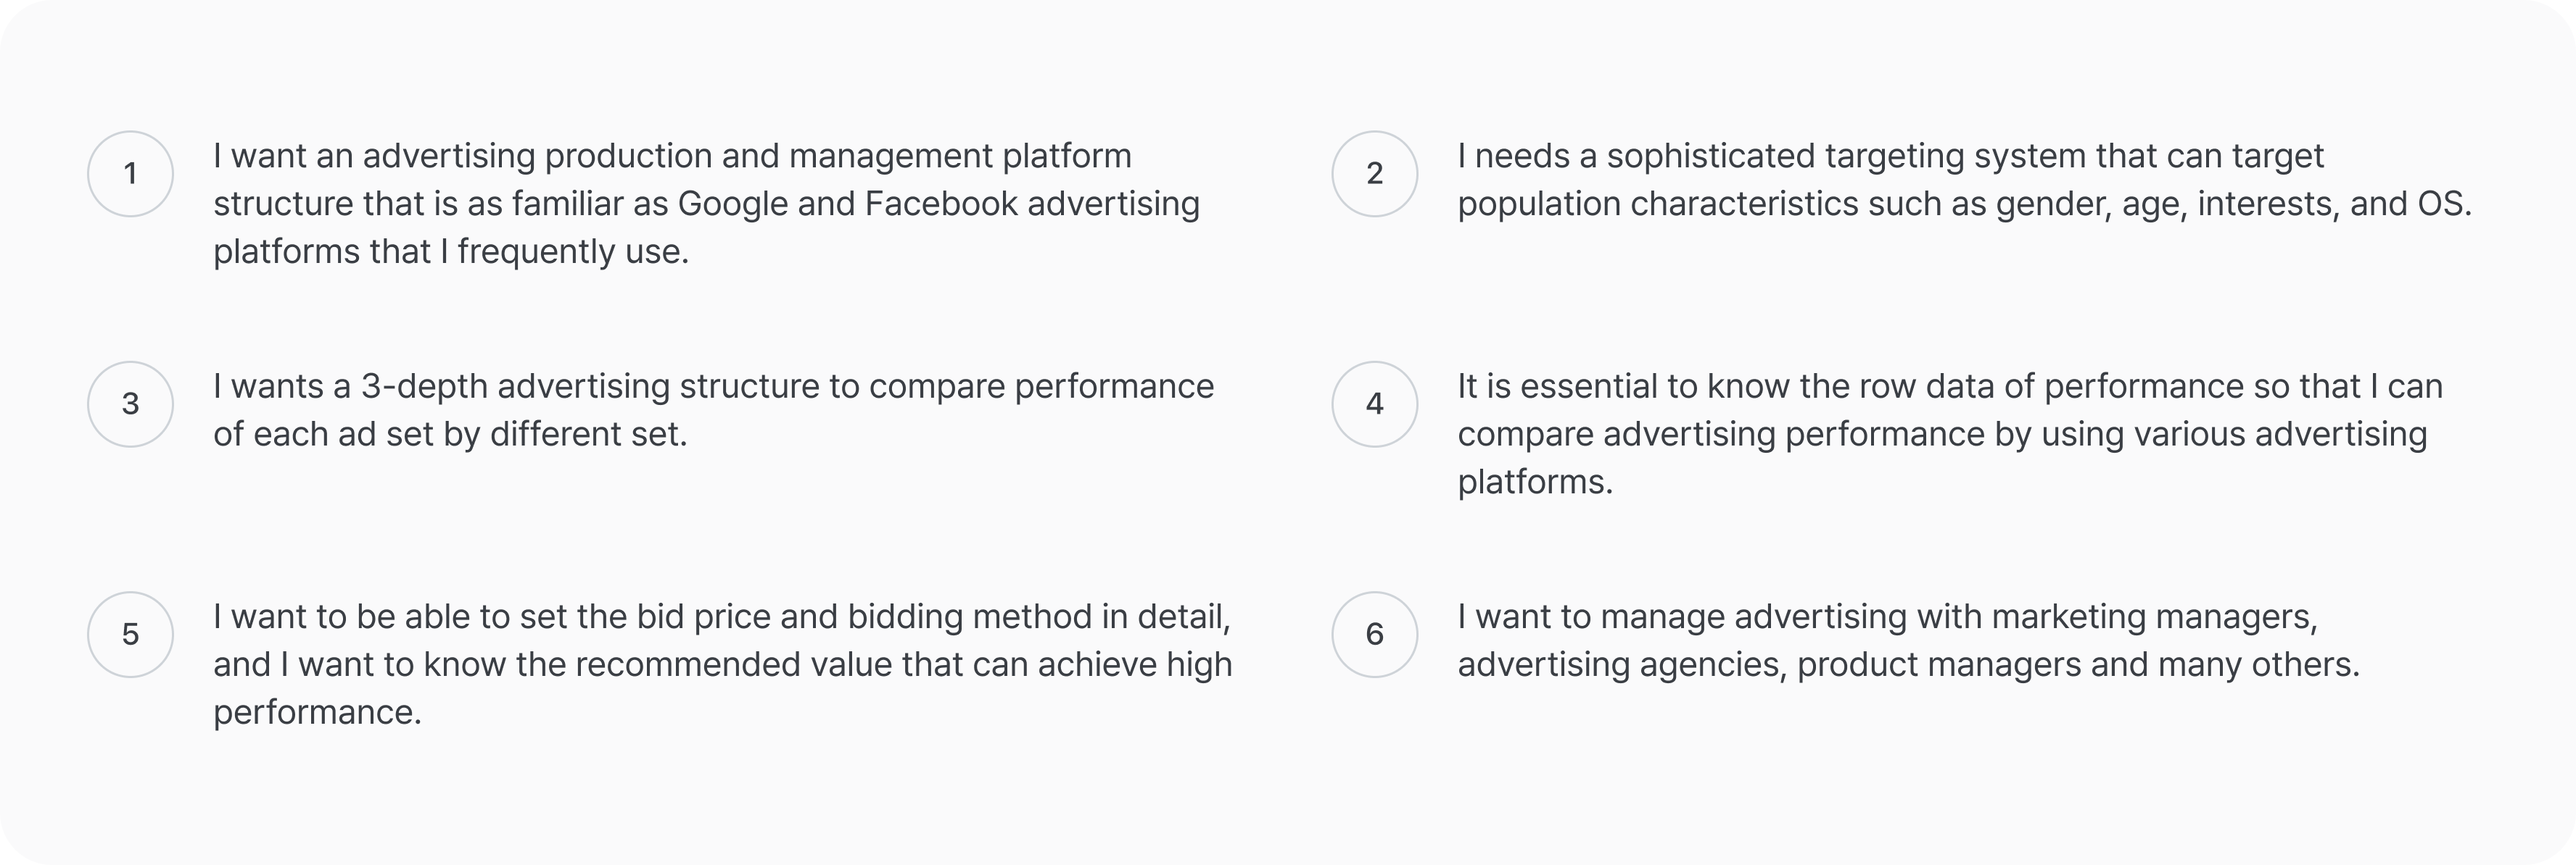
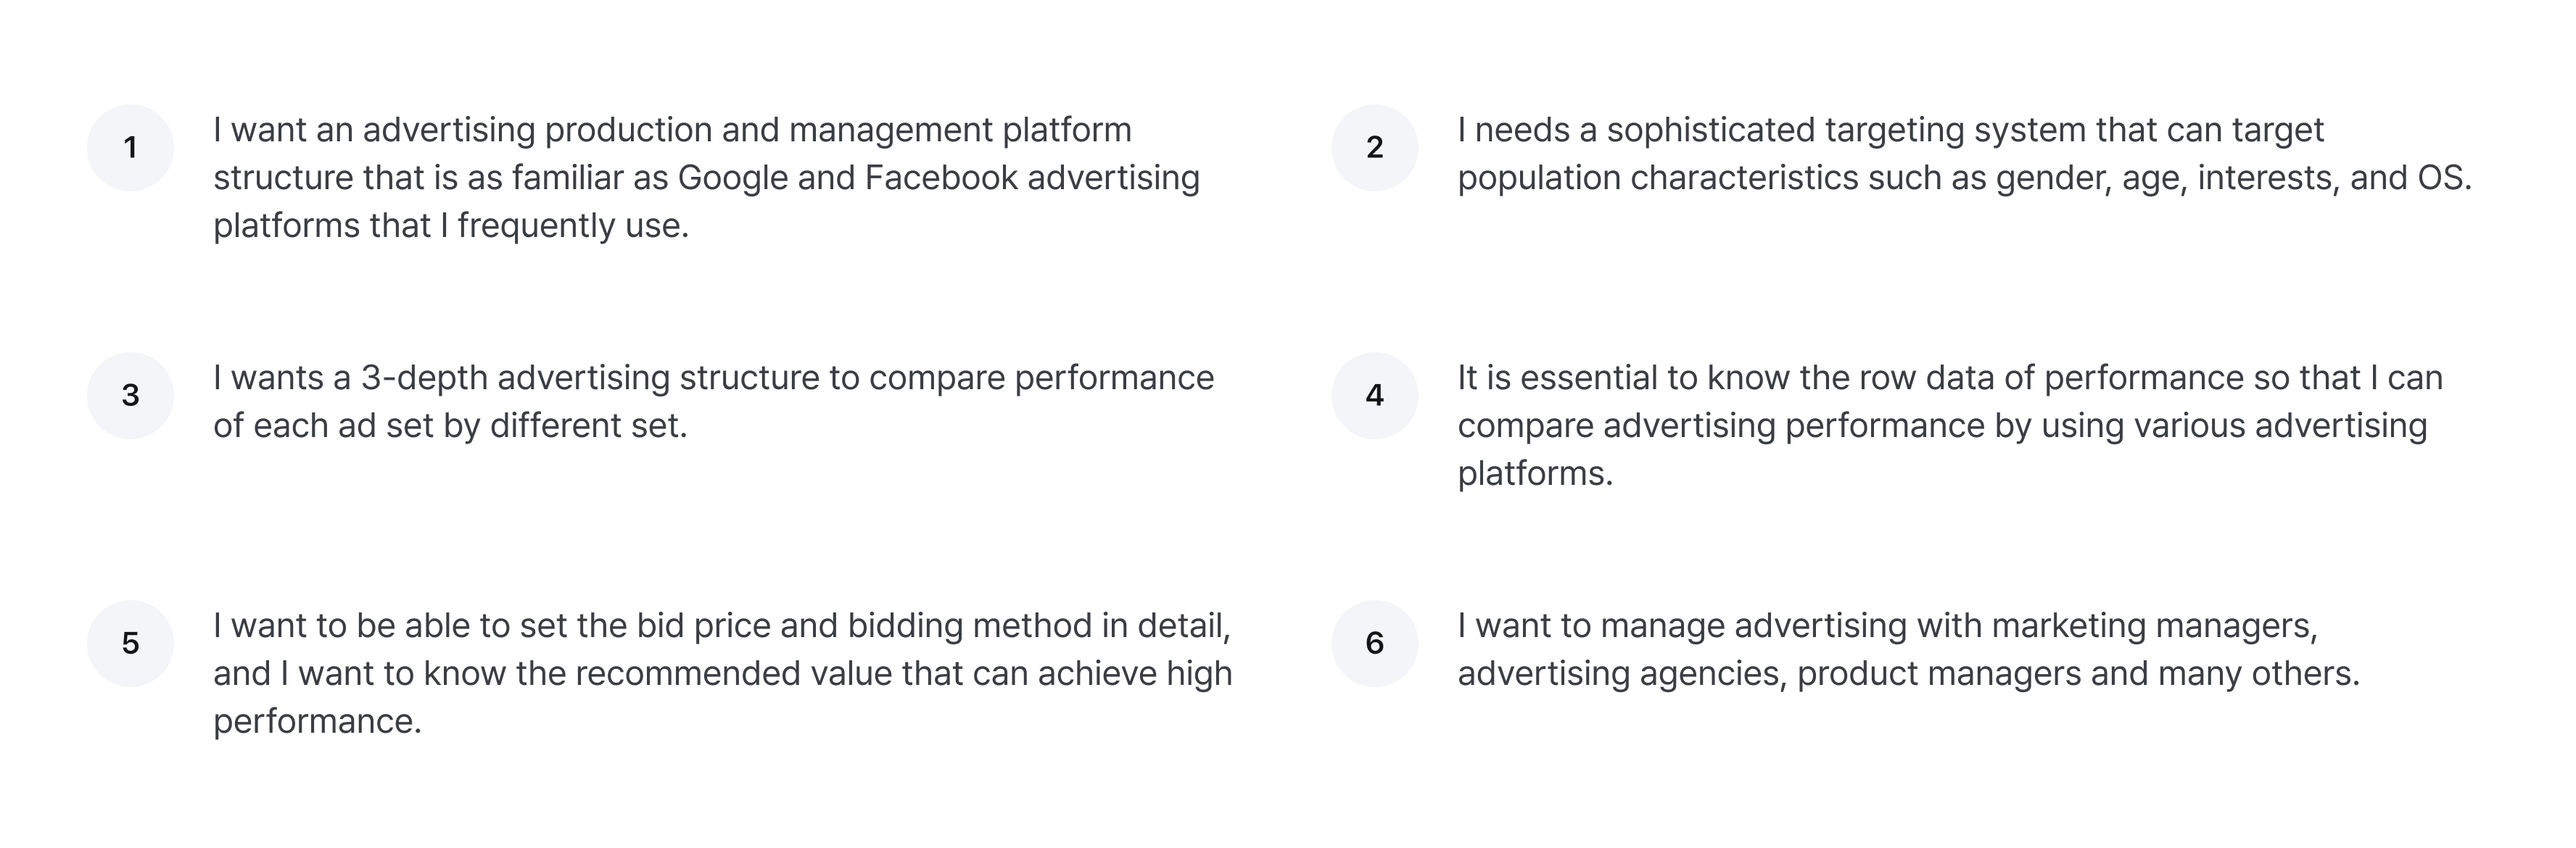
work1

diff --git a/src/Work1.tsx b/src/Work1.tsx
@@ -23,7 +23,14 @@ import liteIA from './image/works/work1liteIA.png';
 import ExpertIA from './image/works/work1exportIA.png';
 import NextItem from './components/NextItem';
 import thumbnail4 from './image/thumbnails/thumbnail4.png';
-
+import feature1 from './image/works/work1feature1.png';
+import feature2 from './image/works/work1feature2.png';
+import feature3 from './image/works/work1feature3.png';
+import feature4 from './image/works/work1feature4.png';
+import feature5 from './image/works/work1feature5.png';
+import feature6 from './image/works/work1feature6.png';
+import direction1 from './image/works/work1direction1.png';
+import direction2 from './image/works/work1direction2.png';
 //New Ads Platform for Experts
 
 function Work1(props: {
@@ -42,20 +49,19 @@ function Work1(props: {
           period={'2022.01. - 2022.08.'}/>
       </div>
       <MainImage image={work1MainImage}/>
-
-      < WorkTextSection 
-        title='Overview'
-        description='As the karrot advertisement platform grews continuously, various advertisers began to use it. As a result, the need to develop the platform suited to a variety of advertisers.' />
-      <div style={{backgroundColor: "#000", display: "flex" }}>
-        <div style={{ backgroundColor: "#000", margin:"auto", maxWidth:"1400px", alignContent: "center", padding: "100px 48px", display: "flex", flexDirection: "column", gap:"150px" }}>   
+      <div style={{backgroundColor: "#000", display: "flex", flexDirection:'column' }}>
+        < WorkTextSection 
+          title='Overview'
+          description='As the karrot advertisement platform grews continuously, various advertisers began to use it. As a result, the need to develop the platform suited to a variety of advertisers.'
+          isWhiteText={true} />
+        <div style={{ margin:"auto", maxWidth:"1600px", alignContent: "center", padding: "100px 48px", display: "flex", flexDirection: "column", gap:"150px" }}>   
             <div style={{ display: "flex", flexDirection: "row", gap:"40px"}}>
                 <div style={{ display: "flex", flexDirection: "column", gap:"18px" }}>
                     <div className='nurmericIndex'>1</div>
                     <div style={{
                         color: "#F4F5F8",
                         fontSize: "18px",
-                        fontWeight: "500",
-                        lineHeight: "139%"
+                        lineHeight: "140%"
                         }}>We have continuously developed the platform to reflect the diverse needs of users, which has increased the difficulty and complexity of the platform for SMB to use.
                     </div>
                 </div>
@@ -64,8 +70,7 @@ function Work1(props: {
                     <div style={{
                         color: "#F4F5F8",
                         fontSize: "18px",
-                        fontWeight: "500",
-                        lineHeight: "139%"
+                        lineHeight: "140%"
                         }}>There is a need to launch an advanced advertising platform that meets the needs of professional advertisers who advertise over 1 million won per a month.
                     </div>
                 </div>
@@ -75,14 +80,22 @@ function Work1(props: {
         </div>
         < WorkTextSection title={'Goal'} description={'As our product grew, various advertisers began to use it. As a result, the need to develop a platform suited to a variety of advertisers.'} />
         <WorkFullImage image={goal} isBottomMargin={true}/>
-       
+        
+                        
         < WorkTextSection title={'User Needs'} description={'In order to create an MVP that reflects the needs of advertisers, we find out the needs of target users throungh In-depth interviews.'} />
-        <WorkFullImage image={needs} isMargin={true} isBottomMargin={true}/>
+       <WorkFullImage image={needs} isMargin={true} isBottomMargin={true} isRoundedCorner={true} isShadow={true} isBorder={true}/>
+       
+       <WorkTextSection title='Design Direction' description='Marketer-friendly UX with detailed performance analysis features for advertising professionals'/>
+       <div className={'margin48'} style={{ display: "flex", flexDirection: "row", gap:"24px"}}>
+       <WorkFullImage image={direction1} isRoundedCorner={true} isShadow={true} isBorder={true}/>
+       <WorkFullImage image={direction2} isRoundedCorner={true} isShadow={true} isBorder={true}/>
+       </div>
        
       <WorkTextSection 
         title='Information Architecture'
         description='We designed a Information Architecture that users can understand and use key features easily.'
         />
+       
       <Divider/>
       <WorkFullImage isMargin={false} image={liteIA}/> 
       <Divider/>
@@ -94,7 +107,21 @@ function Work1(props: {
             description='Based on the information Architecture, We carefully planned the actual usage environment such as a creating and managing ads.'
             />
           <WorkFullImage isMargin={true} image={wireframe} isRoundedCorner={true} isBottomMargin={true}/>
+      </div>
+      <WorkTextSection title='Key features'/>
+      <div className={'margin48'} style={{ display: "flex", flexDirection: "column", gap:"12px"}}>
+        <div style={{ display: "flex", flexDirection: "row", gap:"12px"}}>
+          <WorkFullImage image={feature1} isRoundedCorner={true} isShadow={true} isBorder={true}/>     
+          <WorkFullImage image={feature2} isRoundedCorner={true} isShadow={true} isBorder={true}/>   
+          <WorkFullImage image={feature3} isRoundedCorner={true} isShadow={true} isBorder={true}/>       
         </div>
+        <div style={{ display: "flex", flexDirection: "row", gap:"12px"}}>
+          <WorkFullImage image={feature4} isRoundedCorner={true} isShadow={true} isBorder={true}/>     
+          <WorkFullImage image={feature5} isRoundedCorner={true} isShadow={true} isBorder={true}/>   
+          <WorkFullImage image={feature6} />                              
+        </div>
+      </div>
+      
       <Waiting/>
       <BackButton/>
       <NextItem to='/Work4' thumbnail={thumbnail4} nextProjectTitle='Leading More Business Users to Advertising'/>

diff --git a/src/Works.tsx b/src/Works.tsx
@@ -43,8 +43,9 @@ function Works(props: {
             </div>
          <div className='contents zoomIn'>
             <Content projectPage={"Work4"} thumbnail={thumbnail4} projectTitle={'Leading More Business Users to Advertising'} projectDescription={'An experiment of UX to induce users to start advertising.'} projectSubtitle={'Karrot'} period={'2022.10 - 2022.12.'}/>
-            <Content projectPage={"Work2"} thumbnail={thumbnail2} projectTitle={'First User Process Design'} projectDescription={'Onboarding process design on bookcovery to make activation.'} projectSubtitle={'Bookcovery'} period={'2020.05 - 2020.11.'}/>
             <Content projectPage={"Work5"} thumbnail={thumbnail5} projectTitle={'New Service Design'} projectDescription={'Designing an entirely new book-share platform for working people who want to develop compentency.'} projectSubtitle={'Bookcovery'} period={'2020.01. - 2020.08.'}/>
+            <Content projectPage={"Work2"} thumbnail={thumbnail2} projectTitle={'First User Process Design'} projectDescription={'Onboarding process design on bookcovery to make activation.'} projectSubtitle={'Bookcovery'} period={'2020.05 - 2020.11.'}/>
+            
           </div>
          <div className='contents zoomIn'>
             <Content projectPage={"Work3"} thumbnail={thumbnail3} projectTitle={'Store UX/UI Design'} projectDescription={'Mobile store tap UX/UI design on Styleshare to maximize store tap using rates and purchase amout.'} projectSubtitle={'Styleshare'} period={'2020.10 - 2020.12.'}/>

diff --git a/src/Work5.tsx b/src/Work5.tsx
@@ -22,7 +22,7 @@ import wireframe from './image/works/work5wireframe.png';
 import system from './image/works/work5system.png';
 import system2 from './image/works/work5system2.png';
 import NextItem from './components/NextItem';
-import thumbnail3 from './image/thumbnails/thumbnail3.png';
+import thumbnail2 from './image/thumbnails/thumbnail2.png';
 import design1 from './image/works/work5design1.png';
 import design2 from './image/works/work5design2.png';
 import design3 from './image/works/work5design3.png';
@@ -79,7 +79,7 @@ function Work5(props: {
       <div style={{backgroundColor:'#333443'}}><WorkFullImage image={design4}/></div>
       <div style={{marginTop:'60px'}}><WorkFullImage image={cover} isMargin={true} isRoundedCorner={true} isBottomMargin={true}/></div>
       <BackButton/>
-      <NextItem to='/Work3' thumbnail={thumbnail3} nextProjectTitle='Store UX/UI Design'/>
+      <NextItem to='/Work2' thumbnail={thumbnail2} nextProjectTitle='First User Process Design'/>
       </>
     )
 }

diff --git a/src/workDetailPage/WorkFullImage.tsx b/src/workDetailPage/WorkFullImage.tsx
@@ -11,6 +11,8 @@ export function WorkFullImage (props: {
     isBackgroundColor? : boolean;
     isMargin? : boolean;
     isBottomMargin? : boolean;
+    isShadow?: boolean;
+    isBorder? : boolean;
 }){
 
     return (
@@ -20,7 +22,9 @@ export function WorkFullImage (props: {
             <div style={{display:'flex', flexDirection:'column', gap:'20px'}}>
                 <img className={`workFullImage 
                         ${props.isRoundedCorner ? 'corner-round24' : ''} 
-                        ${props.isBackgroundColor ? 'worksimage-GrayBackgroundColor' : ''} 
+                        ${props.isBackgroundColor ? 'worksimage-GrayBackgroundColor' : ''}
+                        ${props.isShadow ? 'worksimage-Shadow' : ''} 
+                        ${props.isBorder ? 'worksimage-Border' : ''} 
                         ` } src = {props.image}/>
                 {props.description && <div className='imageCaption'>{props.description}</div>}
             </div>

diff --git a/src/Work4.tsx b/src/Work4.tsx
@@ -12,7 +12,7 @@ import { Dispatch, SetStateAction, useEffect } from 'react';
 import wavedivider from './image/wavedivider.png'
 import {MainImage} from './workDetailPage/WorkMainImage';
 import BackButton from './components/BackButton';
-import thumbnail2 from './image/thumbnails/thumbnail2.png';
+import thumbnail5 from './image/thumbnails/thumbnail5.png';
 import NextItem from './components/NextItem';
 
 //Leading More Business Users to Advertising
@@ -36,7 +36,7 @@ function Work2(props: {
       <MainImage image={work1image1}/>
       <Waiting/>
       <BackButton/>
-      <NextItem to='/Work2' thumbnail={thumbnail2} nextProjectTitle='First User Process Design'/>
+      <NextItem to='/Work5' thumbnail={thumbnail5} nextProjectTitle='New Service Design'/>
       </>
     )
 }

diff --git a/src/Work2.tsx b/src/Work2.tsx
@@ -13,7 +13,7 @@ import wavedivider from './image/wavedivider.png'
 import { MainImage } from './workDetailPage/WorkMainImage';
 import BackButton from './components/BackButton';
 import NextItem from './components/NextItem';
-import thumbnail5 from './image/thumbnails/thumbnail5.png';
+import thumbnail3 from './image/thumbnails/thumbnail3.png';
 //First User Process Design
 
 function Work2(props: {
@@ -34,7 +34,7 @@ function Work2(props: {
       <MainImage image={mainImage}/>
       <Waiting/>
       <BackButton/>
-      <NextItem to='/Work5' thumbnail={thumbnail5} nextProjectTitle='New Service Design'/>
+      <NextItem to='/Work3' thumbnail={thumbnail3} nextProjectTitle='Store UX/UI Design'/>
       </>
     )
 }

diff --git a/src/style.css b/src/style.css
@@ -793,19 +793,17 @@ a {
 
   .nurmericIndex {
     display: flex;
-    width: 44px;
-    height: 44px;
-    flex-direction: column;
+    width: 40px;
+    height: 40px;
     justify-content: center;
     align-items: center;
-    border-radius: 42px;
-    border: 0.5px solid #FFF;
+    border-radius: 20px;
     color: #F7F8FA;
     text-align: center;
     font-size: 14px;
     font-style: normal;
     font-weight: 600;
-    line-height: 135%;
+    background:#3A3E44;
   }
 
 

diff --git a/src/workDetailPage/WorkTextSection.tsx b/src/workDetailPage/WorkTextSection.tsx
@@ -22,7 +22,7 @@ export function WorkTextSection(props: {
                         lineHeight: "normal"
                     }}>{props.title}</div>}
                 {props.description && <div style={{
-                    color: "#3A3E44",
+                    color: props.isWhiteText ? '#E6E9ED' : '#3A3E44',
                     fontSize: "20px",
                     fontStyle: "normal",
                     fontWeight: "400",

diff --git a/src/workDetailPage/style_works.css b/src/workDetailPage/style_works.css
@@ -59,6 +59,12 @@
 .worksimage-GrayBackgroundColor {
     background-color: #F2F3F6;
 }
+.worksimage-Shadow {
+    box-shadow: 0px 2px 20px 0px rgba(0, 0, 0, 0.04);
+}
+.worksimage-Border {
+    border: 1px solid var(--gray-10, #F4F5F8);
+}
 .corner-round24 {
     border-radius: 24px;
 }
